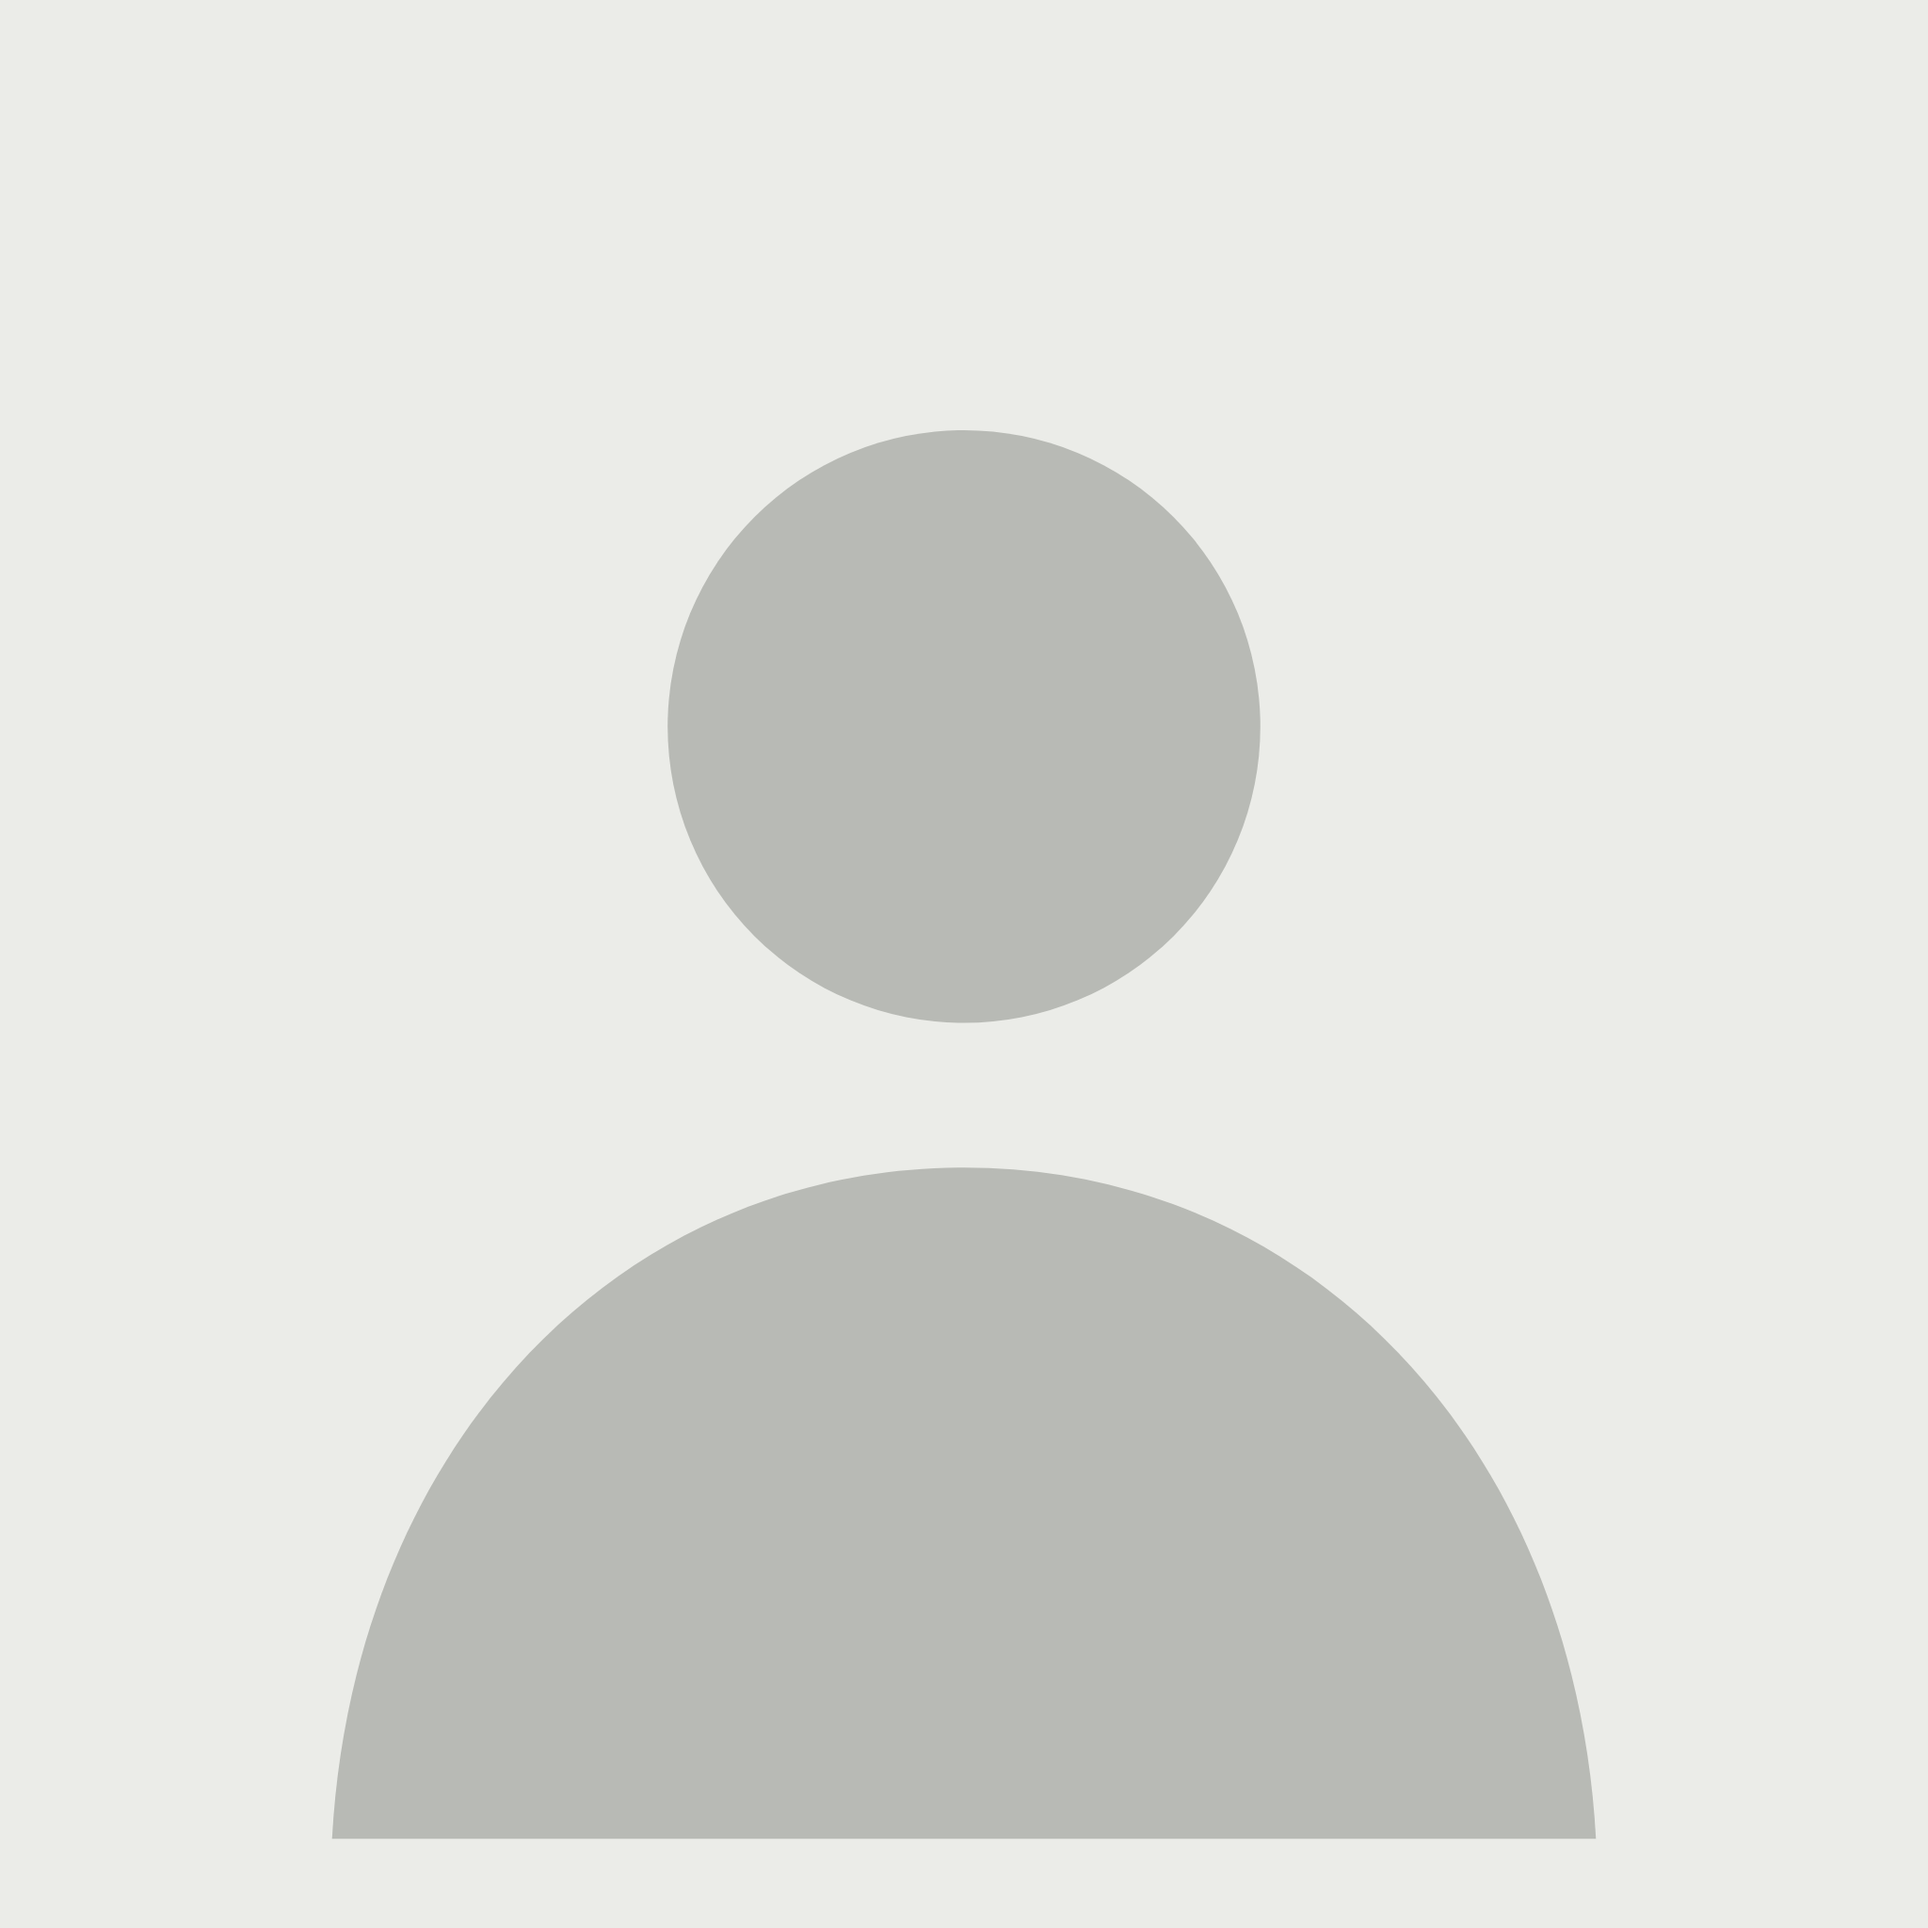
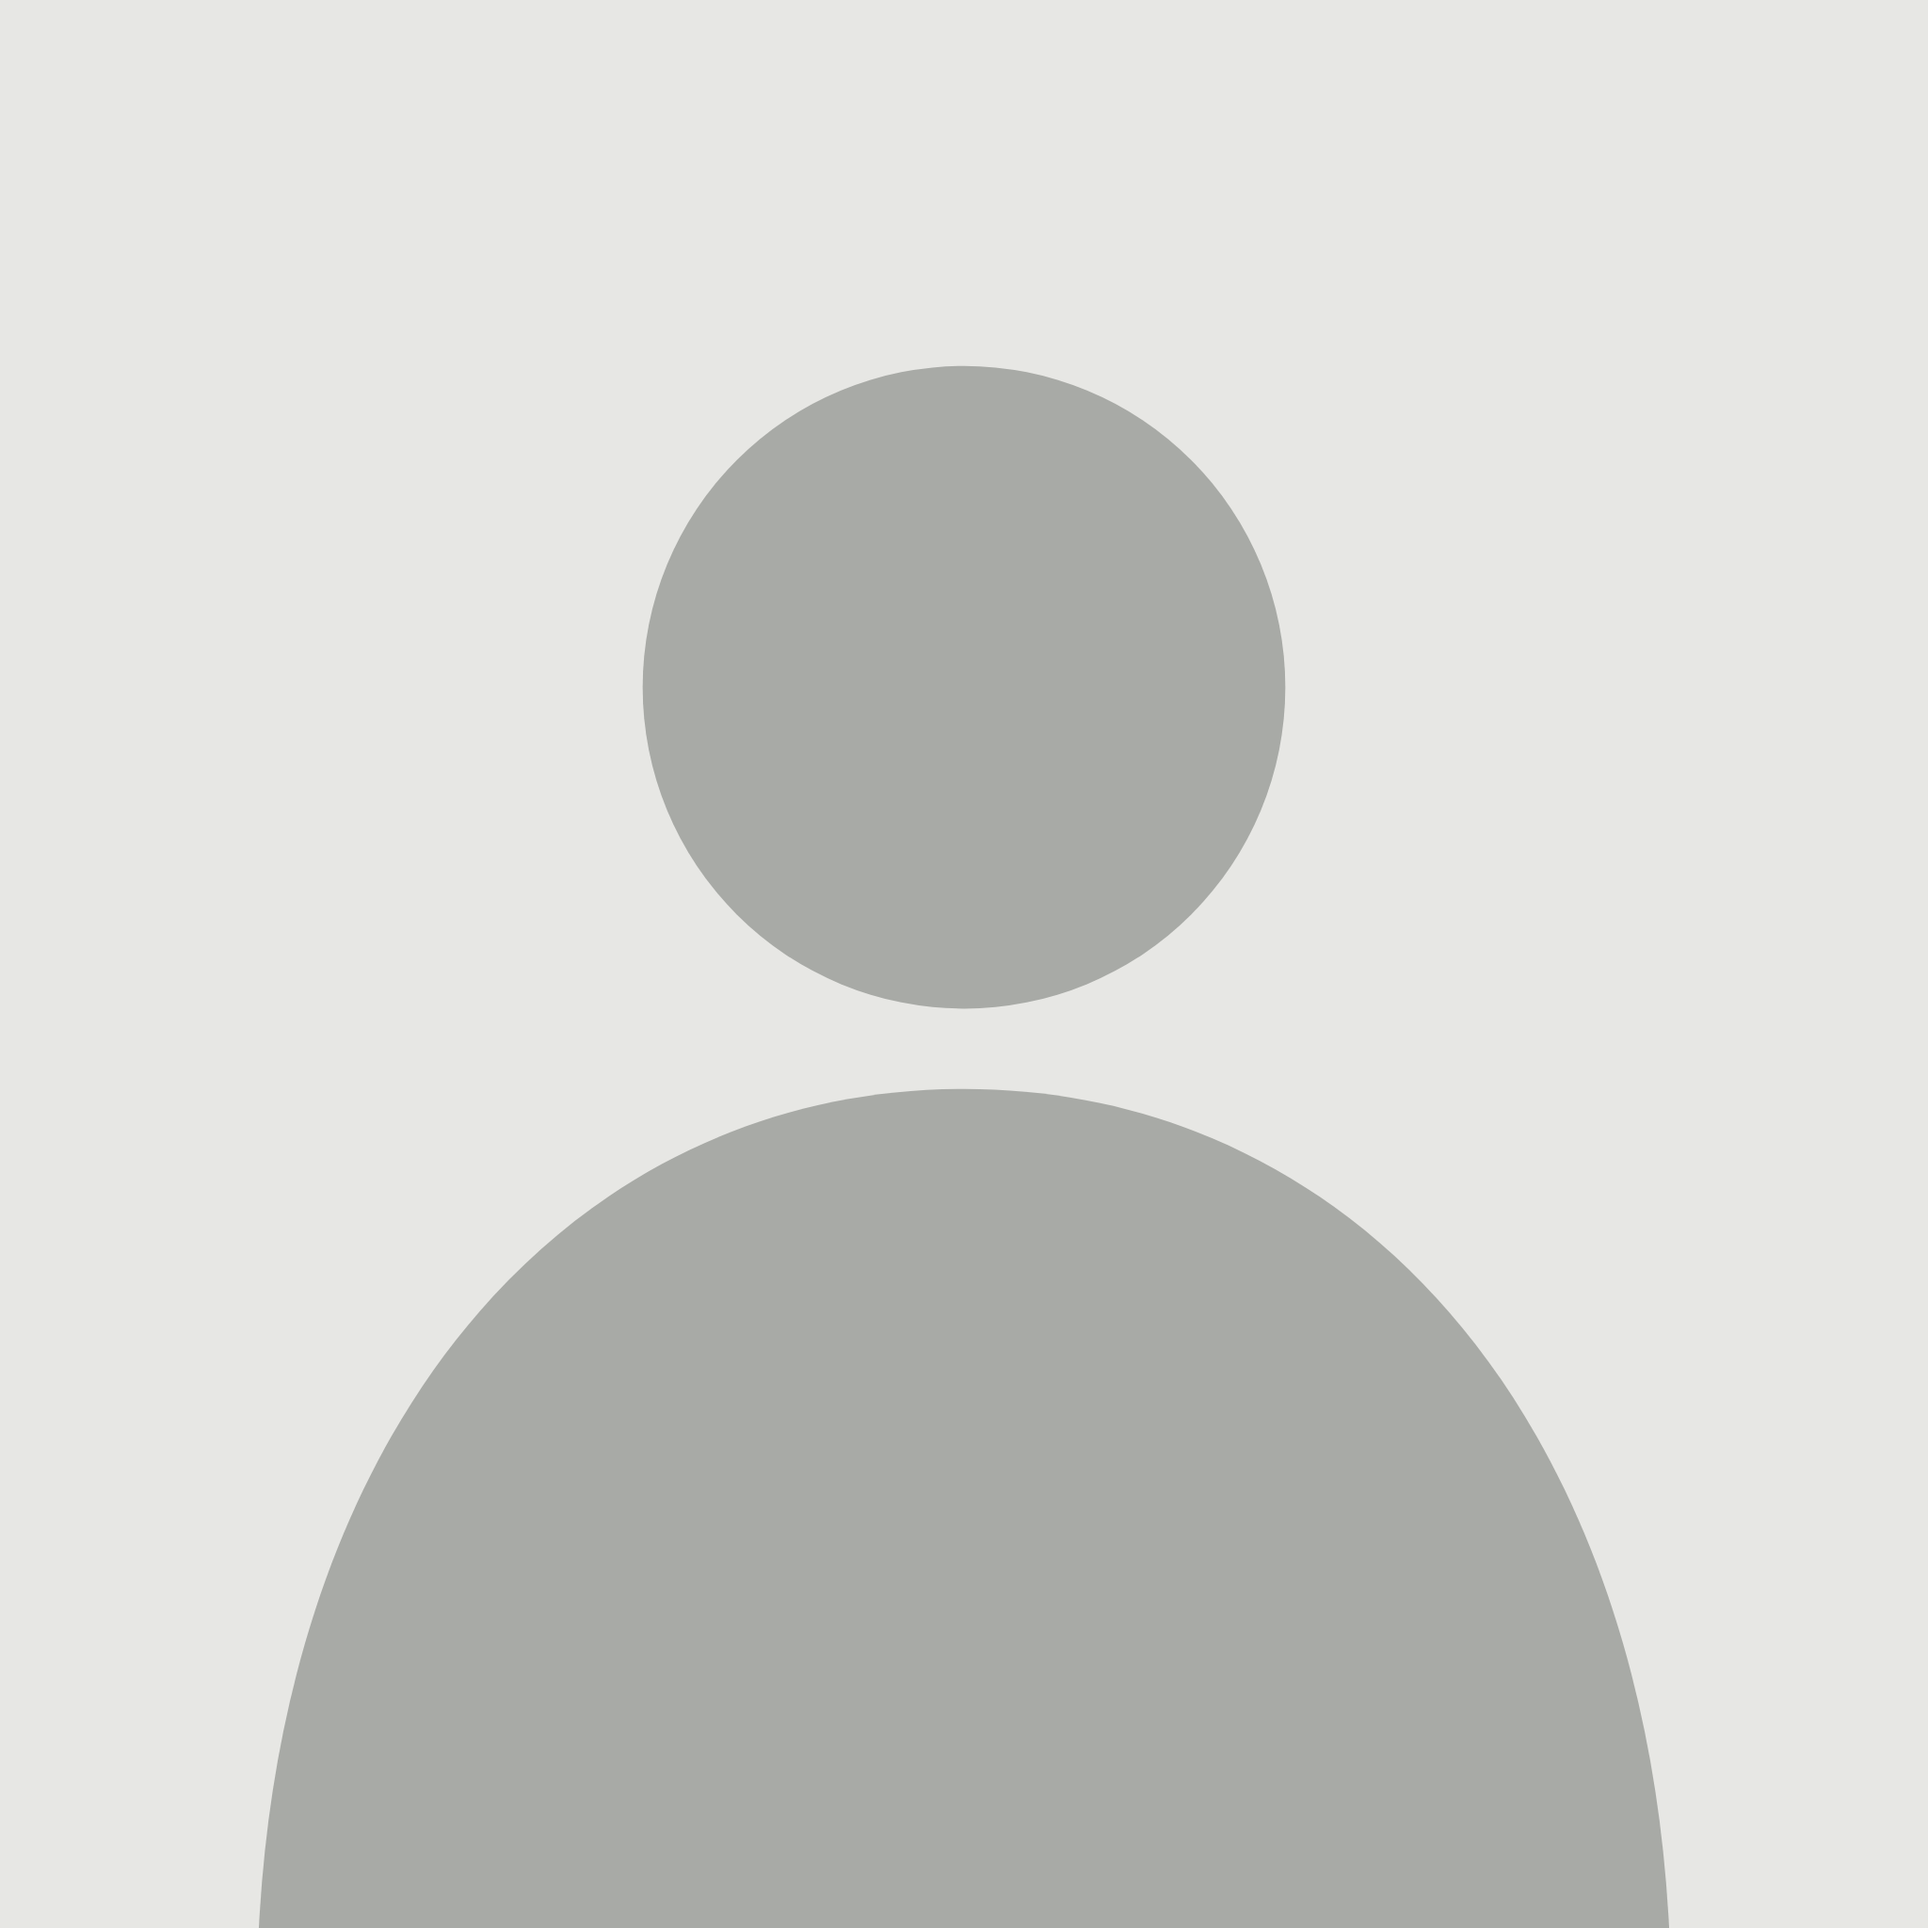
fix: refine default profile rendering

Changed region(s): [[0.125, 0.5625, 0.875, 1.0], [0.3125, 0.1875, 0.6875, 0.4375], [0.4062, 0.5, 0.5938, 0.5312]]

diff --git a/Backcourt-Social/default-profile.html b/Backcourt-Social/default-profile.html
@@ -75,9 +75,9 @@
 
     <template id="avatar-template">
       <svg xmlns="http://www.w3.org/2000/svg" viewBox="0 0 1080 1080" role="img" aria-label="빽코트 기본 프로필 이미지">
-        <rect width="1080" height="1080" fill="#EBECE8"/>
-        <circle cx="540" cy="407" r="166" fill="#B8BAB5"/>
-        <path fill="#B8BAB5" d="M186 1030c12-219 160-376 354-376s342 157 354 376H186Z"/>
+        <rect width="1080" height="1080" fill="#E7E7E4"/>
+        <circle cx="540" cy="385" r="180" fill="#A8AAA6"/>
+        <path fill="#A8AAA6" d="M145 1080c15-292 181-470 395-470s380 178 395 470H145Z"/>
       </svg>
     </template>
 

diff --git a/Backcourt/lib/widgets/common.dart b/Backcourt/lib/widgets/common.dart
@@ -144,7 +144,6 @@ class UserAvatar extends StatelessWidget {
       decoration: BoxDecoration(
         color: color ?? AppColors.surfaceHigh,
         shape: BoxShape.circle,
-        border: Border.all(color: AppColors.text, width: 1.5),
       ),
       alignment: Alignment.center,
       clipBehavior: Clip.antiAlias,
